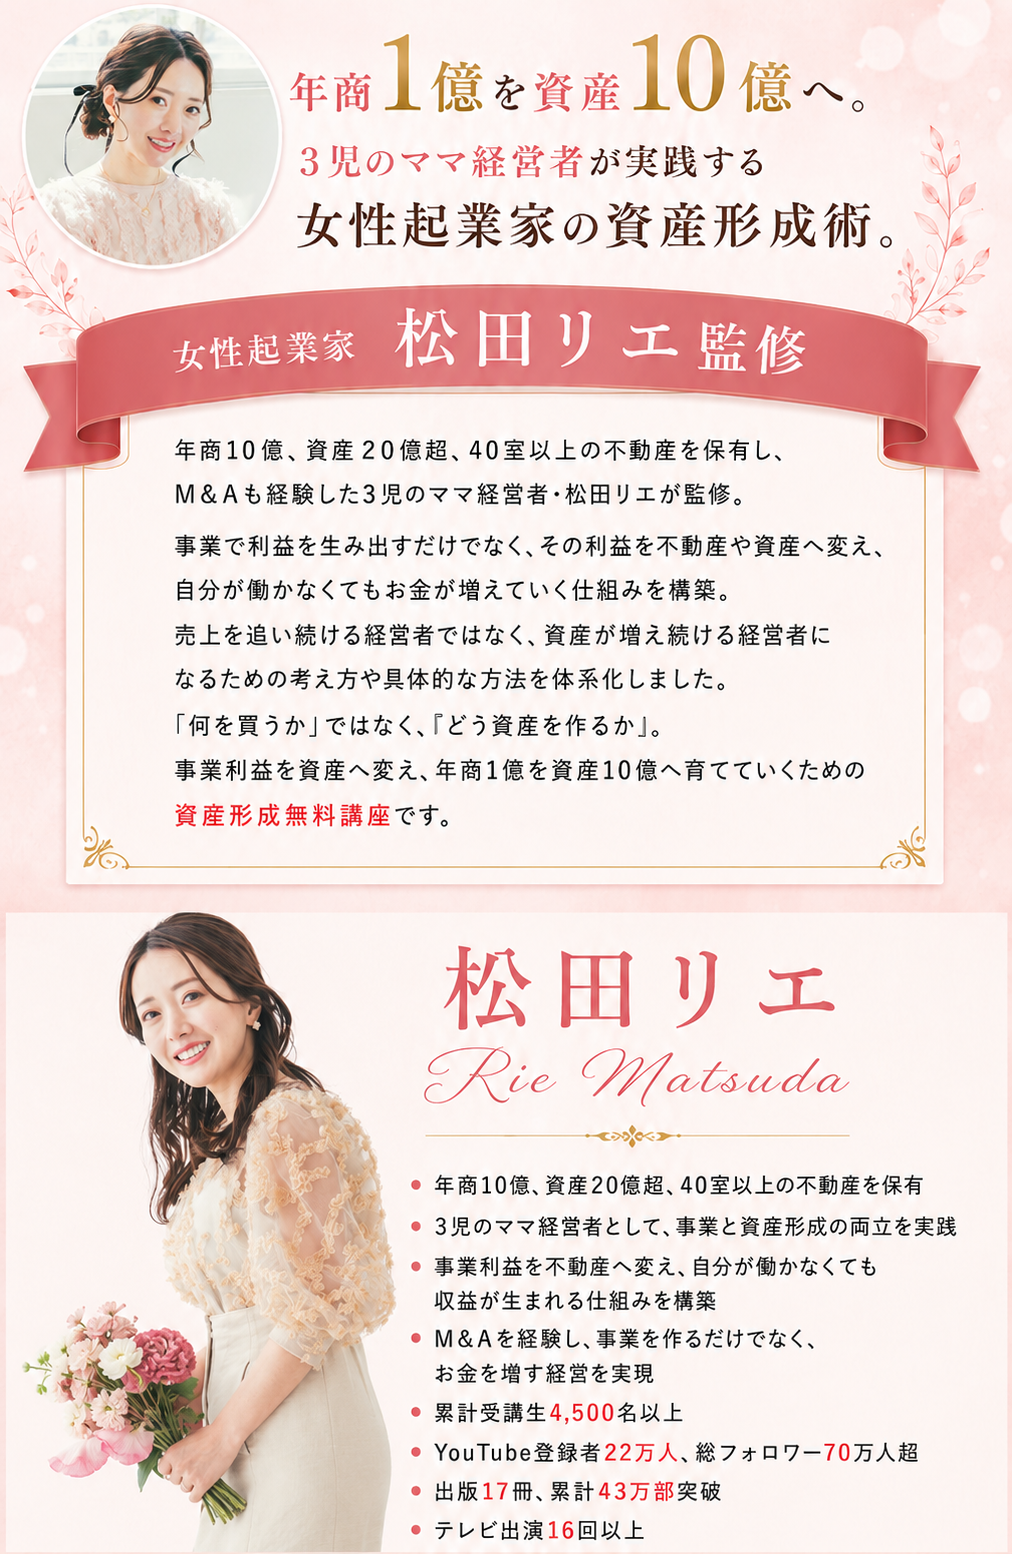
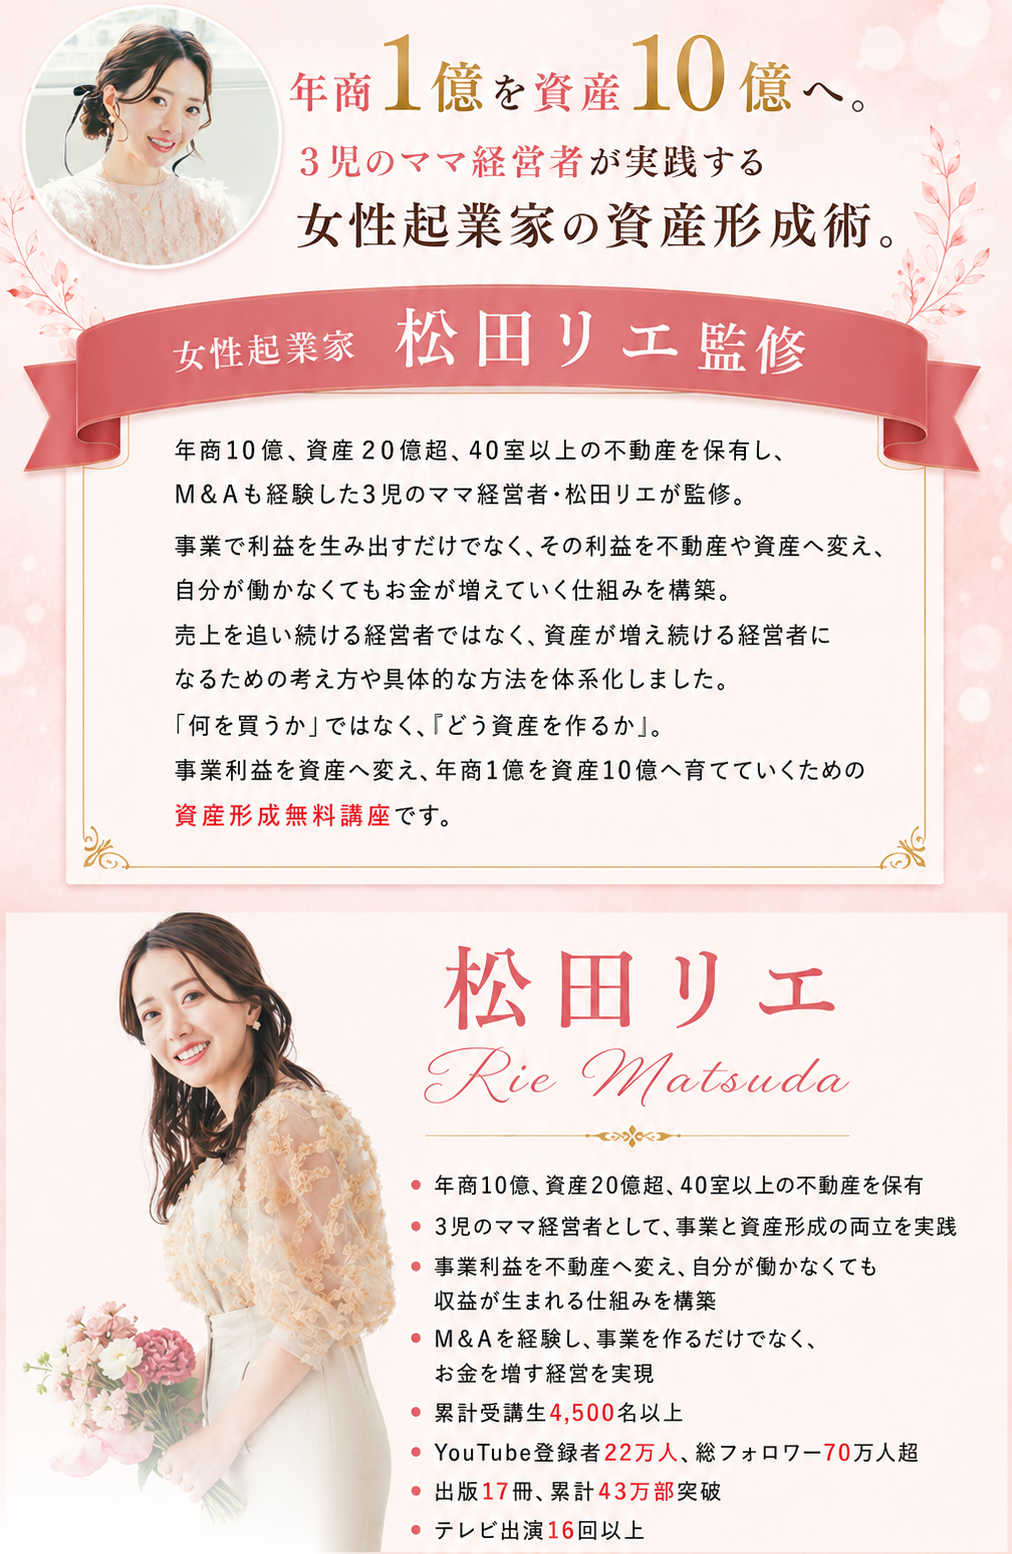
プロフィール画像下端の女性ブツ切りを白へフェードして解消（文字は維持）

Changed region(s): [[0.0, 0.8649, 0.3676, 1.0]]

diff --git a/index.html b/index.html
@@ -977,7 +977,7 @@ footer .f-copy{margin-top:14px;font-size:12px;opacity:.95;}
 
   <!-- ============ 7. 監修者セクション ============ -->
   <section class="kanshu">
-    <img class="profile-img" src="images/profile-top.png?v=1" alt="年商1億を資産10億へ。3児のママ経営者が実践する女性起業家の資産形成術。女性起業家 松田リエ監修。年商10億・資産20億超、40室以上の不動産を保有、M&Aも経験した3児のママ経営者・松田リエが監修。累計受講生4,500名以上／YouTube登録者22万人・総フォロワー70万人超／出版17冊・累計43万部突破／テレビ出演16回以上" width="1012" height="1554">
+    <img class="profile-img" src="images/profile-top.png?v=2" alt="年商1億を資産10億へ。3児のママ経営者が実践する女性起業家の資産形成術。女性起業家 松田リエ監修。年商10億・資産20億超、40室以上の不動産を保有、M&Aも経験した3児のママ経営者・松田リエが監修。累計受講生4,500名以上／YouTube登録者22万人・総フォロワー70万人超／出版17冊・累計43万部突破／テレビ出演16回以上" width="1012" height="1554">
     <img class="profile-img" src="images/jisseki.png?v=1" alt="実績画像・メディア掲載多数。累計受講生4,500名以上／YouTube総登録者22万人以上／総フォロワー70万人突破／累計43万部突破／メディア出演16回以上" width="724" height="1090">
   </section>
 
